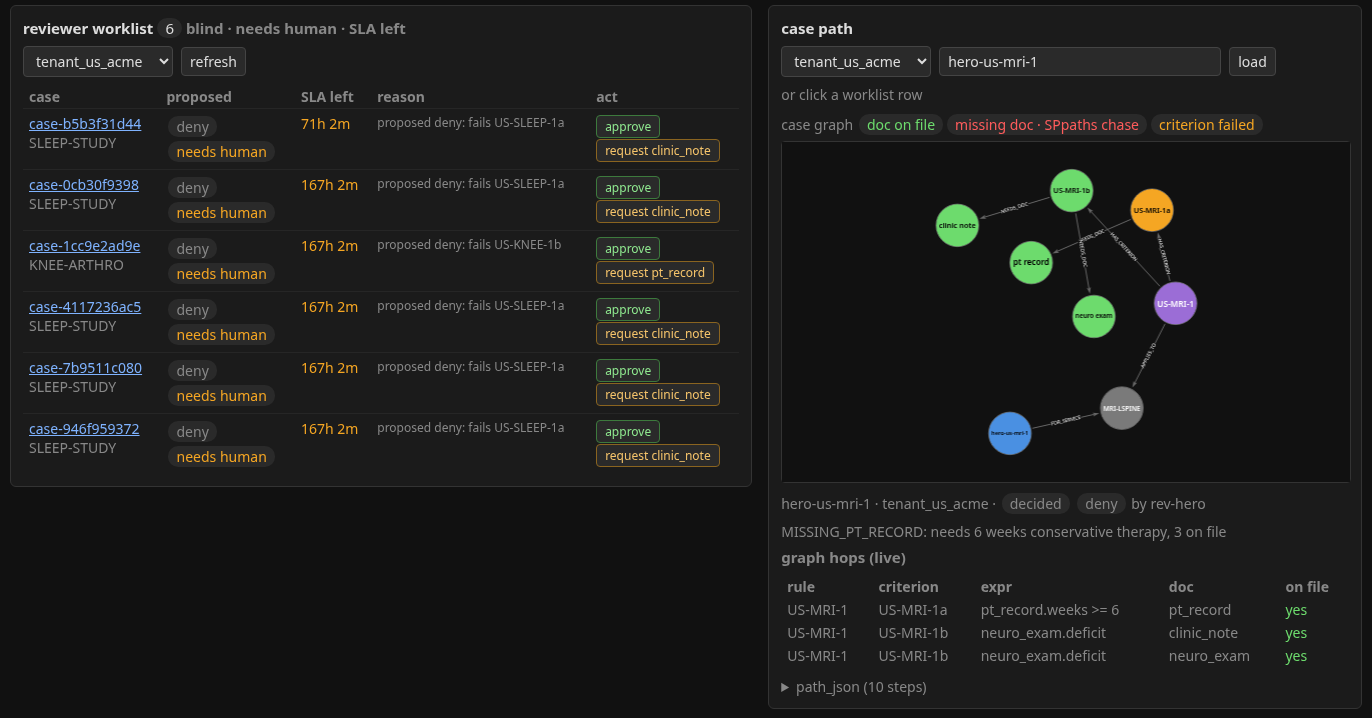
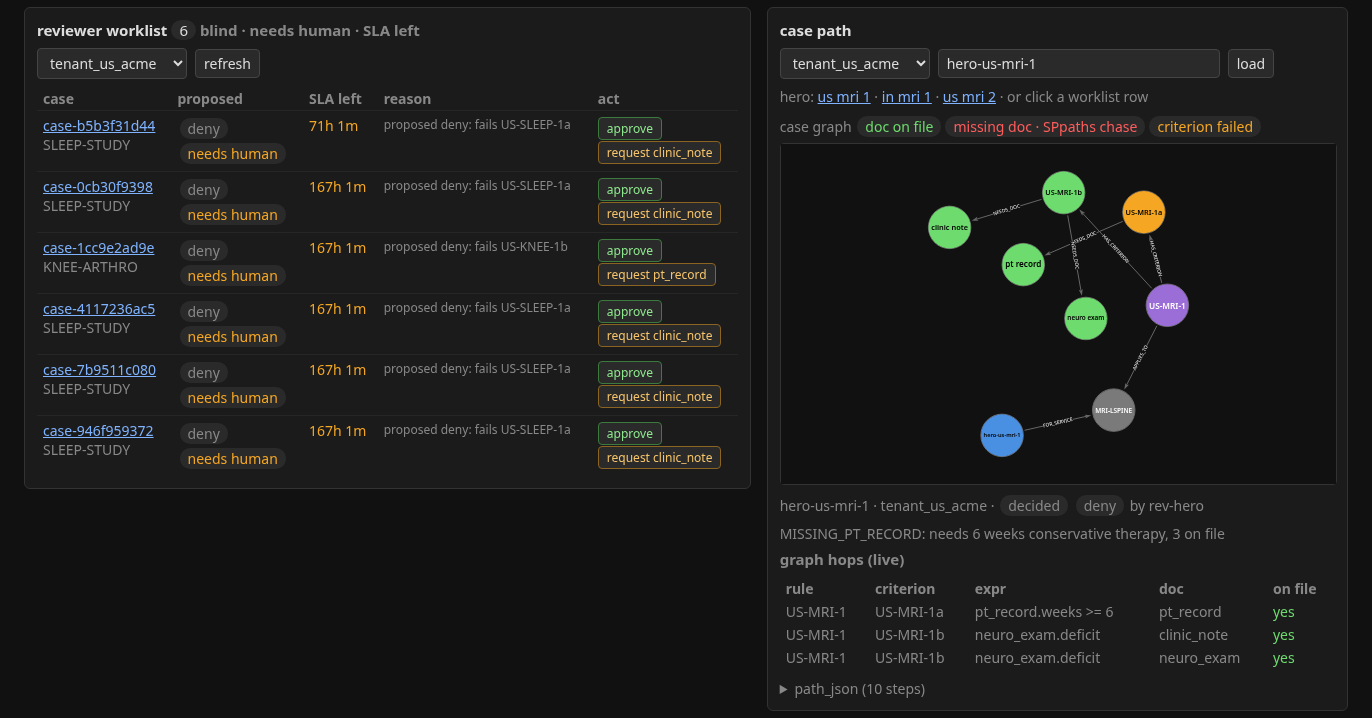
readme: fresh review shot with the hero links in it

diff --git a/README.md b/README.md
@@ -42,7 +42,7 @@ Payer ops on top: one tile per tenant graph with SLA met %, open / at risk / bre
 
 ![reviewer worklist and case graph](docs/dash-review.png)
 
-Reviewer worklist: the blind queue (no names, no facility), SLA left, approve or request a doc. There's no deny button here on purpose. Clicking a row opens the case graph on the right: the rule → criterion → doc hops it walked, green if the doc is on file, red for missing docs plus the `algo.SPpaths` chase, amber for the criterion that failed.
+Reviewer worklist: the blind queue (no names, no facility), SLA left, approve or request a doc. There's no deny button here on purpose. Clicking a row (or one of the hero links above the graph) opens the case graph on the right: the rule → criterion → doc hops it walked, green if the doc is on file, red for missing docs plus the `algo.SPpaths` chase, amber for the criterion that failed.
 
 ![procedural memory](docs/dash-proc.png)
 
